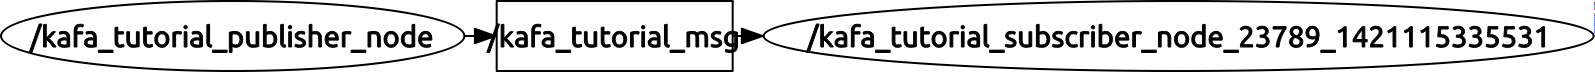
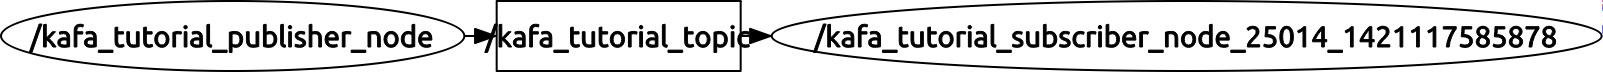
change topic name.

diff --git a/src/kafa_tutorial_publisher_node.cpp b/src/kafa_tutorial_publisher_node.cpp
@@ -6,7 +6,7 @@ int main(int argc, char **argv)
   ros::init(argc, argv, "kafa_tutorial_publisher_node");
   ros::NodeHandle nh;
 
-  ros::Publisher pub = nh.advertise<kafa_tutorial::kafa_tutorial_msg>("kafa_tutorial_msg", 100);
+  ros::Publisher pub = nh.advertise<kafa_tutorial::kafa_tutorial_msg>("kafa_tutorial_topic", 100);
 
   ros::Rate loop_rate(0.5);
 

diff --git a/scripts/kafa_tutorial_subscriber_node.py b/scripts/kafa_tutorial_subscriber_node.py
@@ -8,7 +8,7 @@ def callback(data):
     
 def subscriber():
     rospy.init_node('kafa_tutorial_subscriber_node', anonymous=True)
-    rospy.Subscriber('kafa_tutorial_msg', Int32, callback)
+    rospy.Subscriber('kafa_tutorial_topic', Int32, callback)
     rospy.spin()
     
 if __name__ == '__main__':

diff --git a/README.md b/README.md
@@ -3,12 +3,12 @@
 ## Nodes
 
 * /kafa_tutorial_publisher_node (roscpp)
-  * publications : /kafa_tutotial_msg
+  * publications : /kafa_tutorial_topic [kafa_tutorial/kafa_tutorial_msg]
   * subscriptions : None
 
 * /kafa_tutorial_subscriber_node (rospy)
   * publications : None
-  * subscriptions : /kafa_tutorial_msg
+  * subscriptions : /kafa_tutorial_topic [kafa_tutorial/kafa_tutorial_msg]
 
 ## Messages
 
@@ -17,3 +17,6 @@
 ```
   int32 data
 ```
+
+## Node graph
+
